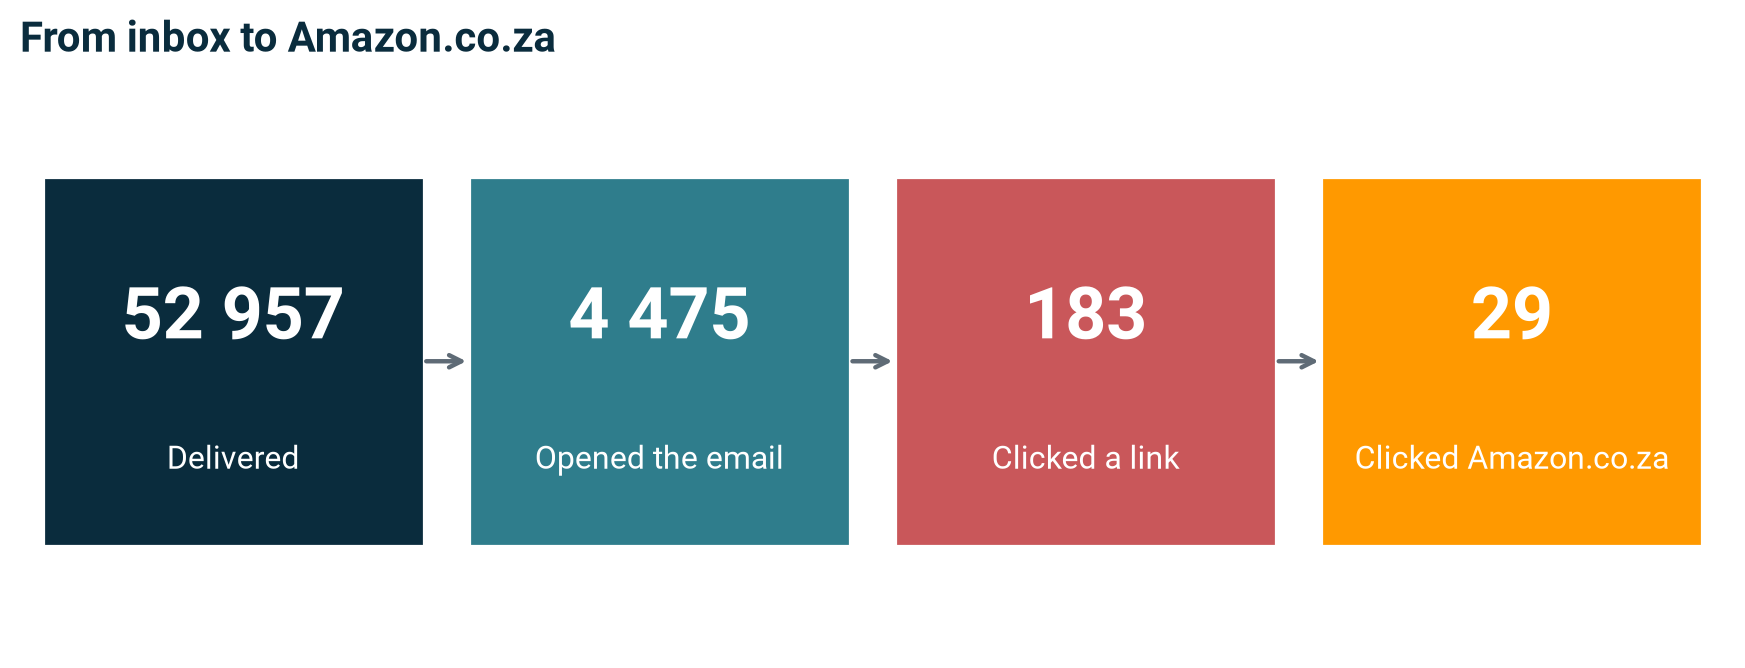
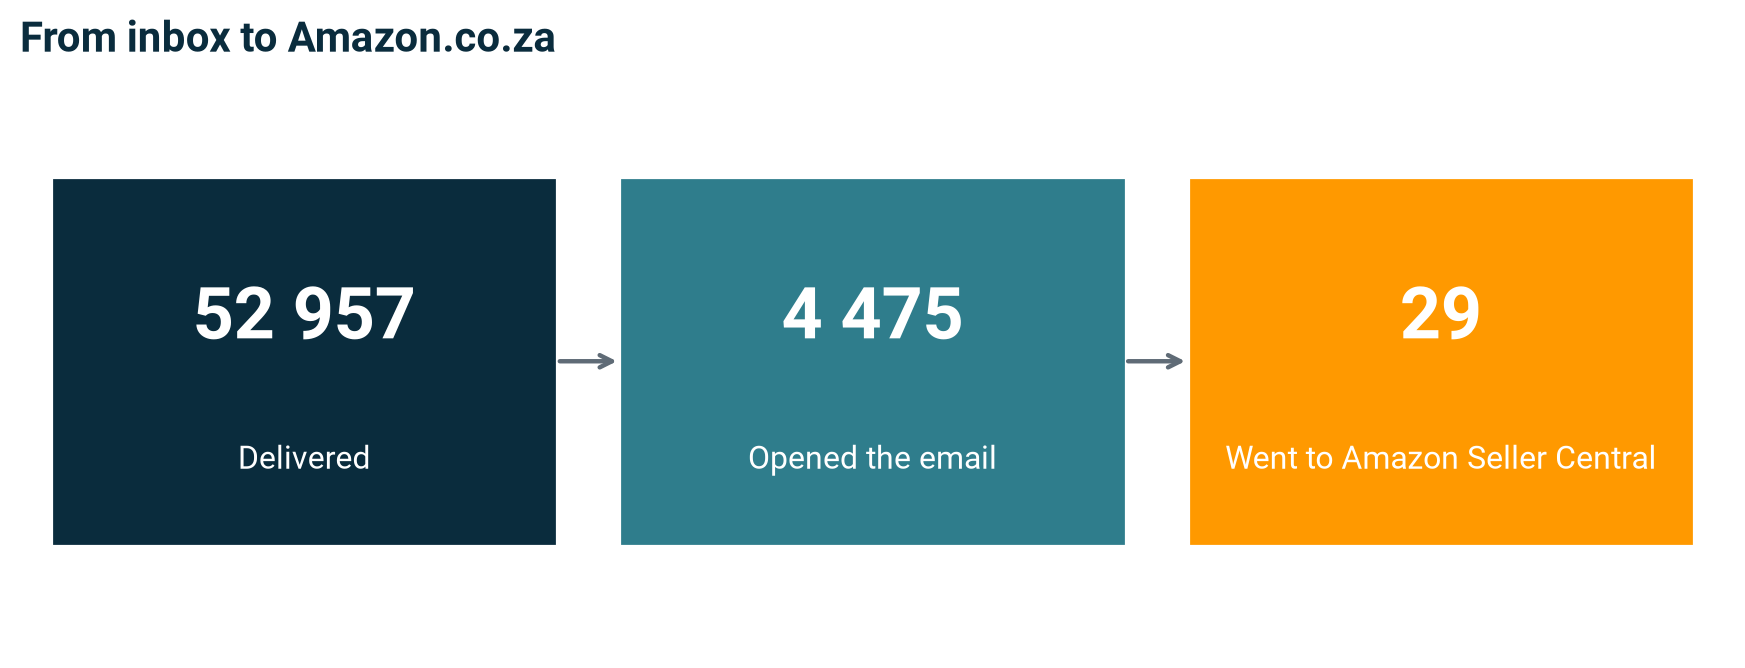
Amazon report: client-only focus, phone journey, Kit screenshots

Changed region(s): [[0.0619, 0.2695, 0.9903, 0.8383], [0.0, 0.2695, 0.0309, 0.8084], [0.8046, 0.4192, 0.8974, 0.509]]

diff --git a/amazon-newsletter-2026/index.html b/amazon-newsletter-2026/index.html
@@ -58,12 +58,16 @@ td.n,th.n{text-align:right;white-space:nowrap}
 tr.amz td{background:#fff6e8;font-weight:700}
 .scroll{overflow-x:auto;border:1px solid var(--line);border-radius:12px}
 .callout{border-left:5px solid var(--amz);background:#fff6e8;padding:16px 20px;border-radius:0 12px 12px 0;margin:20px 0}
+.phones{display:grid;grid-template-columns:repeat(3,minmax(0,1fr));gap:18px;margin-top:20px}
+.phones figure{padding:12px;text-align:center}
+.phones figure img{border-radius:14px}
+.phones figcaption{text-align:left}
 .next{display:grid;grid-template-columns:repeat(3,minmax(0,1fr));gap:16px;margin-top:20px}
 .next div{background:#fff;border:1px solid var(--line);border-radius:14px;padding:18px 20px;border-top:4px solid var(--amz)}
 .next h4{font-family:Oswald,Arial,sans-serif;color:var(--navy);font-size:19px;font-weight:600;margin-bottom:6px}
 .next p{font-size:14.5px;margin:0}
 footer{padding:32px 0 56px;color:var(--mut);font-size:13.5px;text-align:center}
-@media(max-width:860px){.kpis{grid-template-columns:1fr 1fr}.two,.two.even,.next{grid-template-columns:1fr}}
+@media(max-width:860px){.kpis{grid-template-columns:1fr 1fr}.two,.two.even,.next{grid-template-columns:1fr}.phones{grid-template-columns:1fr;max-width:420px;margin-left:auto;margin-right:auto}}
 @media(max-width:520px){.kpis{grid-template-columns:1fr}section{padding:44px 0}}
 </style>
 </head>
@@ -87,13 +91,13 @@ footer{padding:32px 0 56px;color:var(--mut);font-size:13.5px;text-align:center}
 <section>
  <div class="w">
   <div class="eyebrow">At a glance</div>
-  <h2>Amazon.co.za reached our full newsletter audience, and was the second most clicked link in the email</h2>
-  <p class="lede">The feature invited South African small business owners to open a seller account on Amazon.co.za, with the R1 a month offer until 31 March 2027 and a Black Friday angle. It went to every subscriber on our list.</p>
+  <h2>Amazon.co.za was placed in front of 52 957 South African small business owners</h2>
+  <p class="lede">The feature invited South African entrepreneurs to open a seller account on Amazon.co.za, with the R1 a month offer until 31 March 2027 and a Black Friday angle. It went to every subscriber on the SME South Africa newsletter list.</p>
   <div class="kpis">
    <div class="kpi"><div class="num">52 957</div><span>small business inboxes the edition was delivered to</span></div>
-   <div class="kpi"><div class="num">4 475</div><span>opens of the edition carrying the feature</span></div>
-   <div class="kpi a"><div class="num">29</div><span>people who clicked through to Amazon Seller Central</span></div>
-   <div class="kpi a"><div class="num">#2 of 19</div><span>links in the email by clicks; 12% of every click in the edition</span></div>
+   <div class="kpi"><div class="num">4 475</div><span>readers opened the edition carrying the feature</span></div>
+   <div class="kpi a"><div class="num">29</div><span>readers went through to Amazon Seller Central</span></div>
+   <div class="kpi a"><div class="num">0.65%</div><span>of readers who opened the edition clicked through to Amazon</span></div>
   </div>
  </div>
 </section>
@@ -104,11 +108,11 @@ footer{padding:32px 0 56px;color:var(--mut);font-size:13.5px;text-align:center}
   <h2>What ran, and where</h2>
   <div class="two">
    <div>
-    <p>The feature sat in the body of the edition, after the opening stories and the event invitation, under the label "In partnership with Amazon.co.za".</p>
+    <p>The feature sat in the body of the edition, labelled "In partnership with Amazon.co.za", with one clear button to start a seller account.</p>
     <ul class="facts">
      <li><b>Edition:</b> "Side Hustles to Start Before the Year Ends", a theme about earning extra income, which matches selling online.</li>
      <li><b>Sent:</b> Tuesday 27 October 2026 at 09:03, South African time.</li>
-     <li><b>Audience:</b> the full SME South Africa list of 52 957 subscribers, South African small business owners, founders and people starting out.</li>
+     <li><b>Audience:</b> the full SME South Africa list of 52 957 subscribers: South African small business owners, founders and people starting out.</li>
      <li><b>Message:</b> why sell on Amazon.co.za, Somizi's Sompire brand as proof, three steps to start, the R1 a month seller offer and the Black Friday opportunity.</li>
      <li><b>Call to action:</b> one button, "Explore selling on Sellercentral.Amazon.co.za", linking to sellercentral.amazon.co.za with Amazon's own tracking code.</li>
     </ul>
@@ -123,52 +127,44 @@ footer{padding:32px 0 56px;color:var(--mut);font-size:13.5px;text-align:center}
  <div class="w">
   <div class="eyebrow">Results</div>
   <h2>How readers responded</h2>
-  <figure><img src="img/funnel.png" alt="Delivered, opened, clicked a link, clicked Amazon.co.za"></figure>
-  <div class="two even">
-   <figure><img src="img/share.png" alt="Amazon.co.za share of all clicks">
-    <figcaption><b>One in every eight clicks in the edition went to Amazon.co.za.</b> Of the 183 readers who clicked anything, 29 chose Amazon Seller Central.</figcaption></figure>
-   <div>
-    <div class="scroll"><table>
-     <tr><th>Measure</th><th class="n">Result</th></tr>
-     <tr><td>Delivered</td><td class="n">52 957</td></tr>
-     <tr><td>Opens</td><td class="n">4 475 (8.5%)</td></tr>
-     <tr><td>Readers who clicked any link</td><td class="n">183</td></tr>
-     <tr class="amz"><td>Clicks to Amazon Seller Central</td><td class="n">29</td></tr>
-     <tr class="amz"><td>Amazon share of all clicks</td><td class="n">12%</td></tr>
-     <tr class="amz"><td>Amazon clicks per open</td><td class="n">0.65%</td></tr>
-     <tr><td>Unsubscribes from the edition</td><td class="n">40 (0.08%)</td></tr>
-    </table></div>
-    <p style="font-size:14px;color:var(--mut);margin-top:12px">Clicks are unique clicks per link as recorded by Kit, our email platform. Sign ups on Seller Central are tracked by Amazon through the link's own code (ld=SOA_ZA_PR).</p>
-   </div>
-  </div>
-  <figure><img src="img/links.png" alt="Every link in the email ranked by clicks">
-   <figcaption><b>Amazon.co.za drew more clicks than any SME South Africa article or template in the same edition.</b> Only the registration link for our live event drew more.</figcaption></figure>
-  <div class="callout"><b>What this tells us.</b> Readers who reached the feature acted on it: Amazon.co.za outperformed every piece of our own content in the edition. As one feature inside a broad newsletter, it was seen mainly by the people who opened and read the whole email, which is where the next step can add the most.</div>
+  <figure><img src="img/funnel.png" alt="Delivered, opened, went to Amazon Seller Central"></figure>
+  <div class="scroll"><table>
+   <tr><th>Measure</th><th class="n">Result</th></tr>
+   <tr><td>Delivered</td><td class="n">52 957</td></tr>
+   <tr><td>Opens of the edition</td><td class="n">4 475 (8.5%)</td></tr>
+   <tr class="amz"><td>Readers who went through to Amazon Seller Central</td><td class="n">29</td></tr>
+   <tr class="amz"><td>Clicks per 100 readers who opened the edition</td><td class="n">0.65</td></tr>
+  </table></div>
+  <p style="font-size:14px;color:var(--mut);margin-top:12px">Clicks are unique clicks on the Amazon link as recorded by Kit, the platform that sends the SME South Africa newsletter. Seller account sign ups are tracked by Amazon through the link's own code (ld=SOA_ZA_PR).</p>
  </div>
 </section>
 
 <section class="alt">
  <div class="w">
-  <div class="eyebrow">From the Kit report</div>
-  <h2>The numbers as our email platform records them</h2>
-  <p class="lede">Screenshots of the Kit report for this edition. Kit is the platform that sends the SME South Africa newsletter and counts its opens and clicks.</p>
-  <div class="two even">
-   <figure><img src="img/kit-overview.png" alt="Kit report overview for the edition">
-    <figcaption><b>Overview:</b> 52 957 recipients, sent 27 October 2026 at 09:03.</figcaption></figure>
-   <figure><img src="img/kit-clicks.png" alt="Kit clicks report for the edition">
-    <figcaption><b>Clicks:</b> the Amazon Seller Central link is second in the list with 29 clicks.</figcaption></figure>
+  <div class="eyebrow">On a phone</div>
+  <h2>The reader's journey, step by step</h2>
+  <p class="lede">Most newsletters are read on a phone. These screens show what a reader sees: the feature in their inbox, the tap on the button, and the page they land on.</p>
+  <div class="phones">
+   <figure><img src="img/phone-email.png" alt="The Amazon.co.za feature in the email on a phone">
+    <figcaption><b>1. They read it.</b> The feature opens with a clear promise: grow your business by selling on Amazon.co.za.</figcaption></figure>
+   <figure><img src="img/phone-tap.png" alt="Tapping the Explore selling button on a phone">
+    <figcaption><b>2. They tap.</b> One button, "Explore selling on Sellercentral.Amazon.co.za".</figcaption></figure>
+   <figure><img src="img/phone-landing.png" alt="The Amazon Seller Central page on a phone">
+    <figcaption><b>3. They land on Amazon.</b> Straight onto the Amazon South Africa seller page, with the R1 a month offer and the Sign up button.</figcaption></figure>
   </div>
  </div>
 </section>
 
 <section>
  <div class="w">
-  <div class="eyebrow">Building on it</div>
-  <h2>Where the next placement can go further</h2>
-  <div class="next">
-   <div><h4>A dedicated email</h4><p>A send about selling on Amazon.co.za alone, so the offer is the subject line and the whole email, not one feature among several.</p></div>
-   <div><h4>The readers most likely to sell</h4><p>Target the members already reading about e-commerce, retail and side hustles, who are closest to opening a seller account.</p></div>
-   <div><h4>Black Friday timing</h4><p>A reminder close to Black Friday, when the R1 a month offer and the festive season give sellers the strongest reason to start now.</p></div>
+  <div class="eyebrow">From the Kit report</div>
+  <h2>The numbers as our email platform records them</h2>
+  <p class="lede">Screenshots from the Kit report for this edition. Kit counts the opens and clicks.</p>
+  <div class="two even">
+   <figure><img src="img/kit-overview.png" alt="Kit report overview for the edition">
+    <figcaption><b>Overview:</b> 52 957 recipients, sent 27 October 2026 at 09:03.</figcaption></figure>
+   <figure><img src="img/kit-clicks-amazon.png" alt="Kit clicks report for the Amazon link">
+    <figcaption><b>Clicks on the Amazon link:</b> 29.</figcaption></figure>
   </div>
  </div>
 </section>
